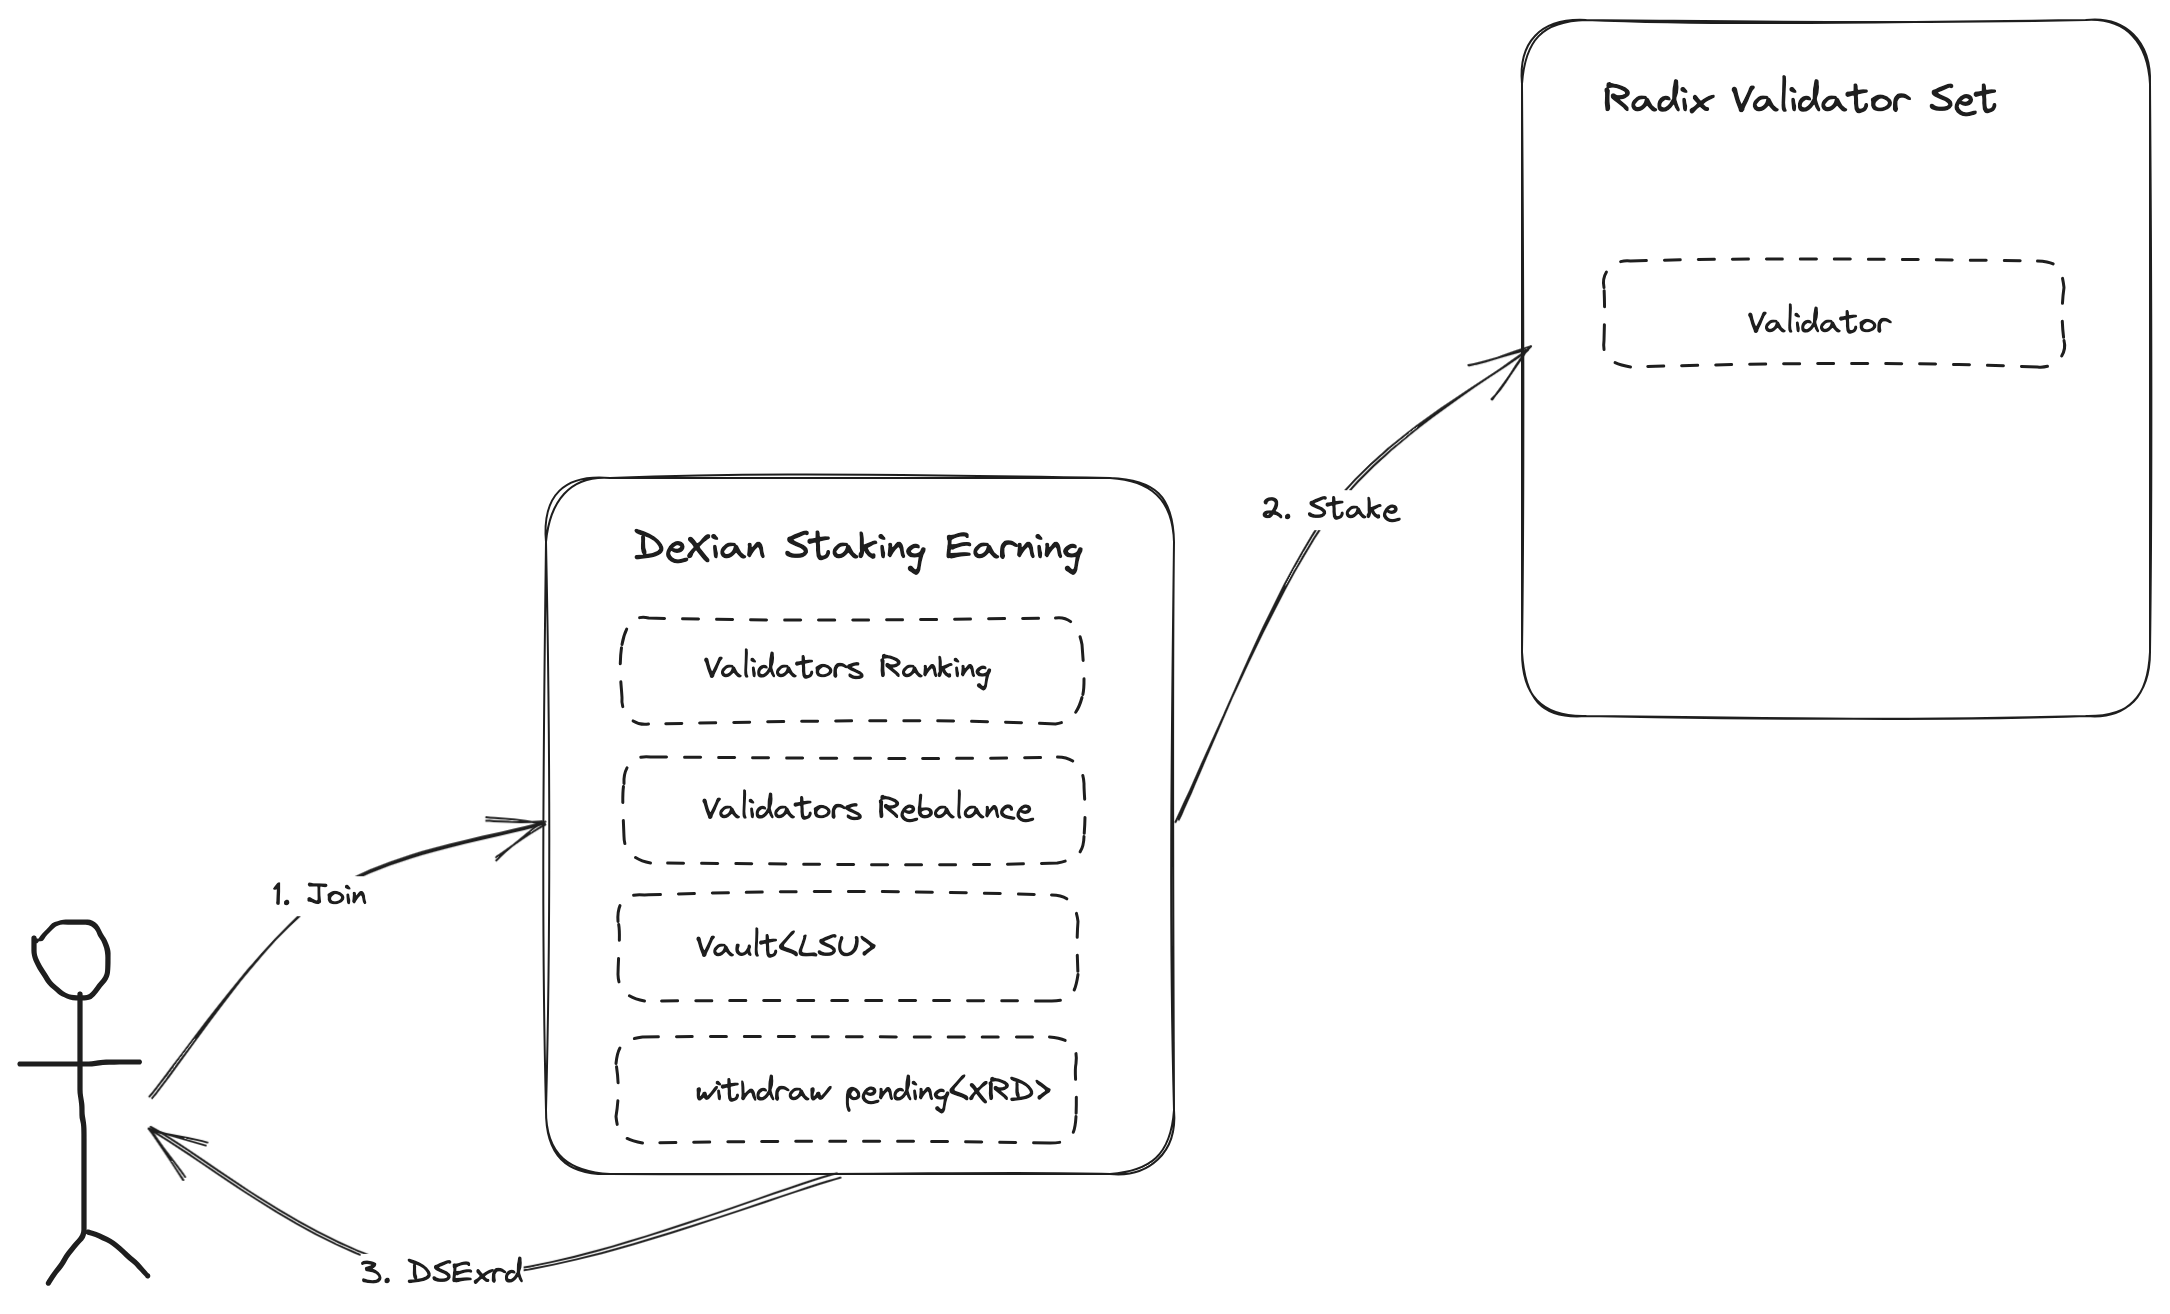
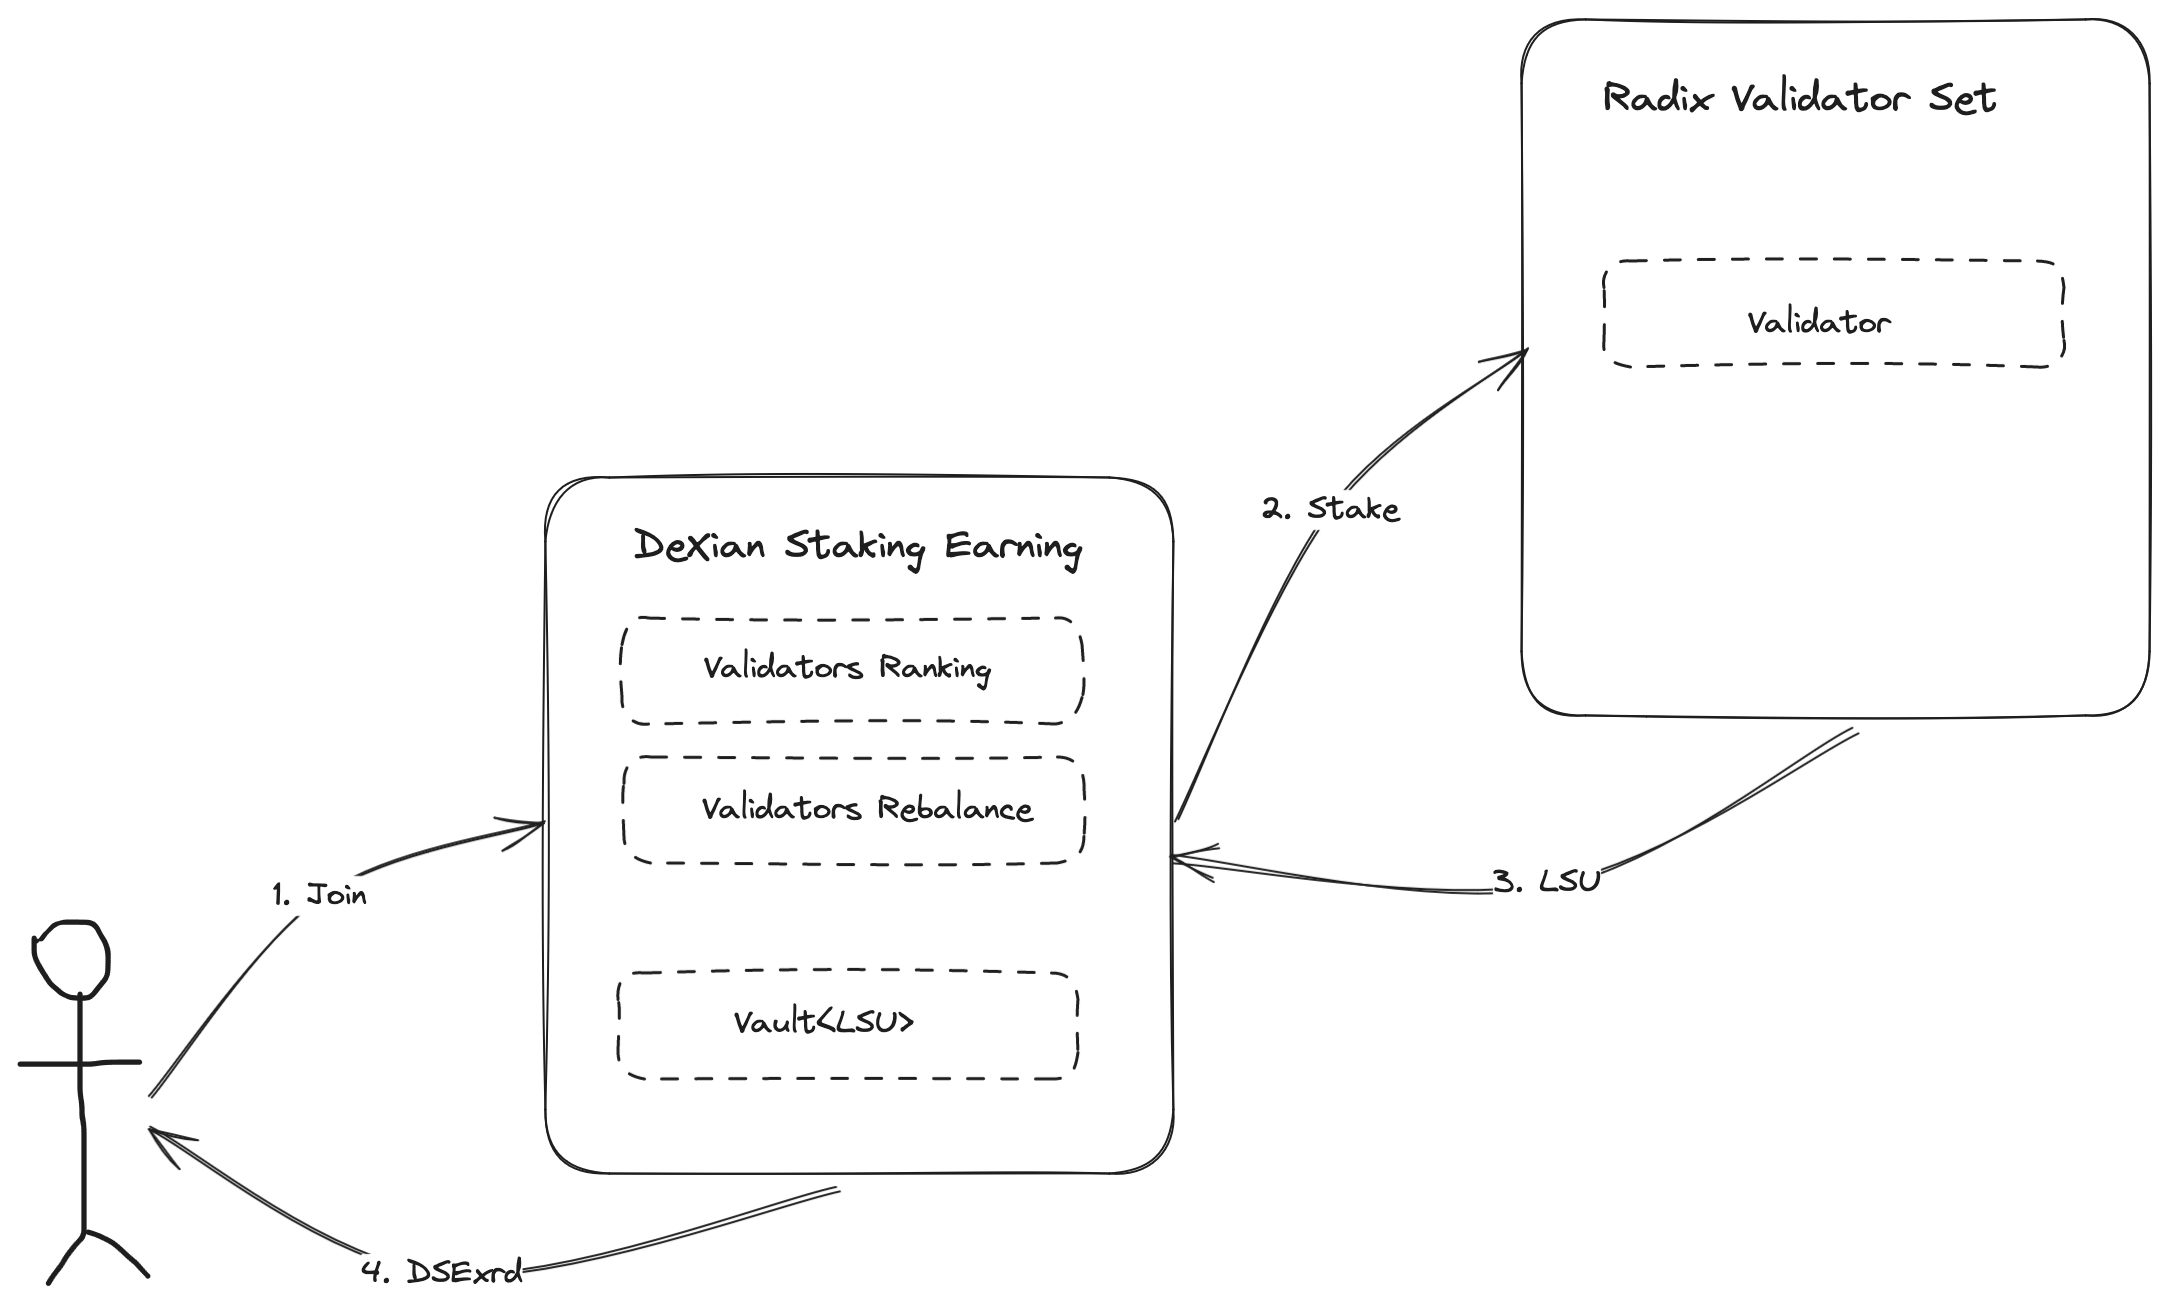
dse

diff --git a/docs/dse/whats_dexian.md b/docs/dse/whats_dexian.md
@@ -1,0 +1,30 @@
+## What's new for the DeXian Staking Earning (DSE) Babylon version?
+
+* Full support for Radix Babylon
+* Fully decentralized, open source implementation
+* Support for two types of users:
+    * Radix Liquid Stake users, who can securely, quickly, and easily receive 100% of the stake benefits through DSE.
+    * Holders who need the flexibility to use XRD in a timely manner.
+* Continued support for both normal and fast redemptions
+* Providing XRD to the DSE liquidity pool earns interest, is completely under your control, and can be withdrawn at any time.
+
+
+## So, how does DSE work?
+
+There are three primary functions: 
+1) Join,
+2) Redeem, and 
+3) Add or Remove Liquidity. 
+
+
+The following are illustrative examples of each of these three primary functions and their respective processes.
+
+#### The process of joining
+
+![Join](/asset/images/stake.png)
+
+#### The process of redeeming
+![Redeem](/asset/images/unstake.png)
+
+#### The process to Add or Remove Liquidity
+![add/remove liquidity](/asset/images/add_remove_liquidity.png)
